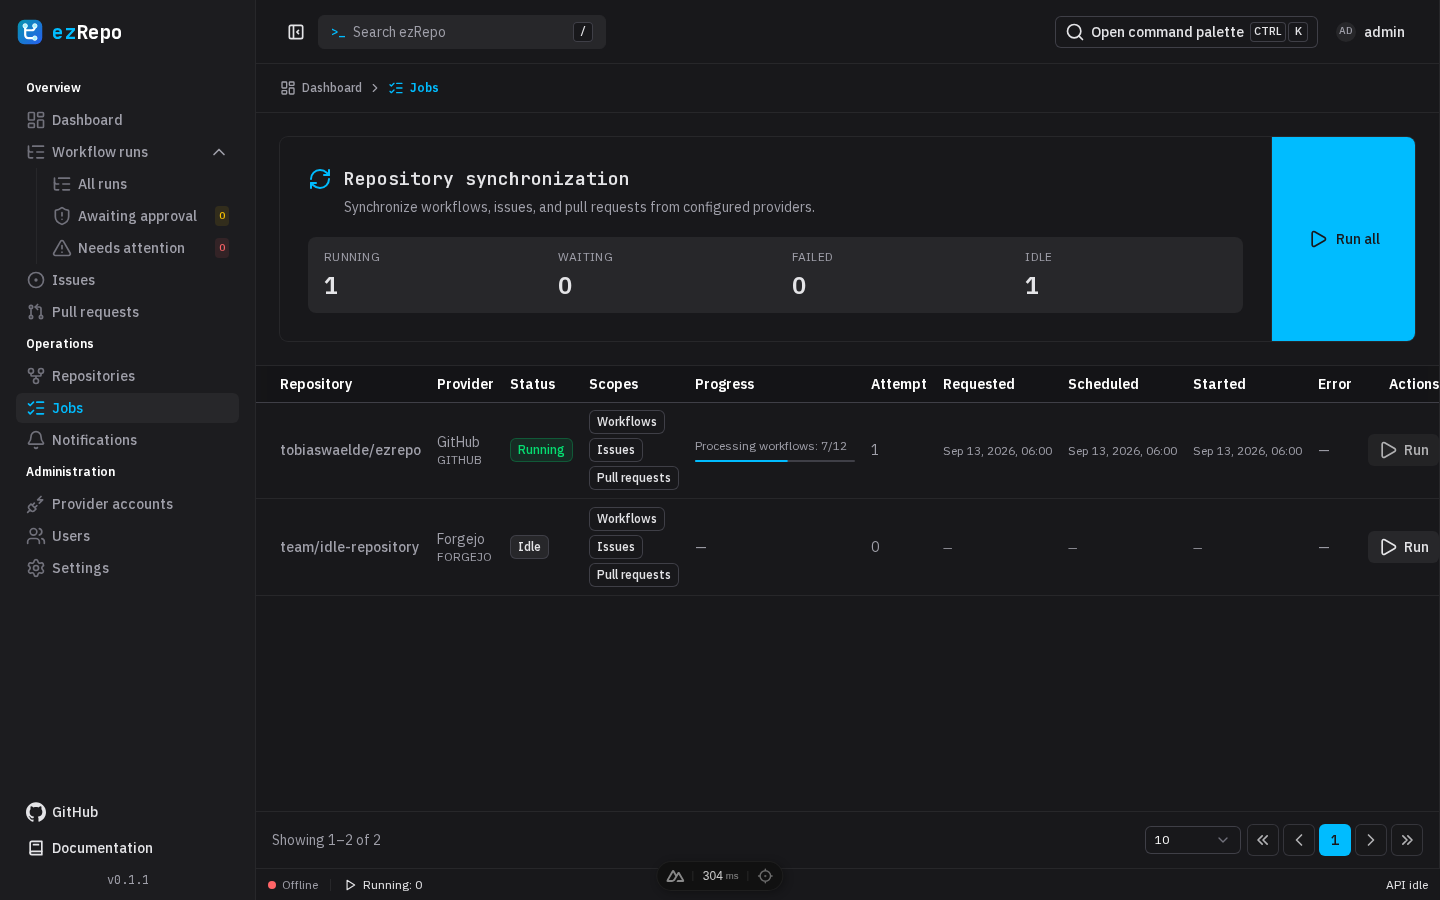
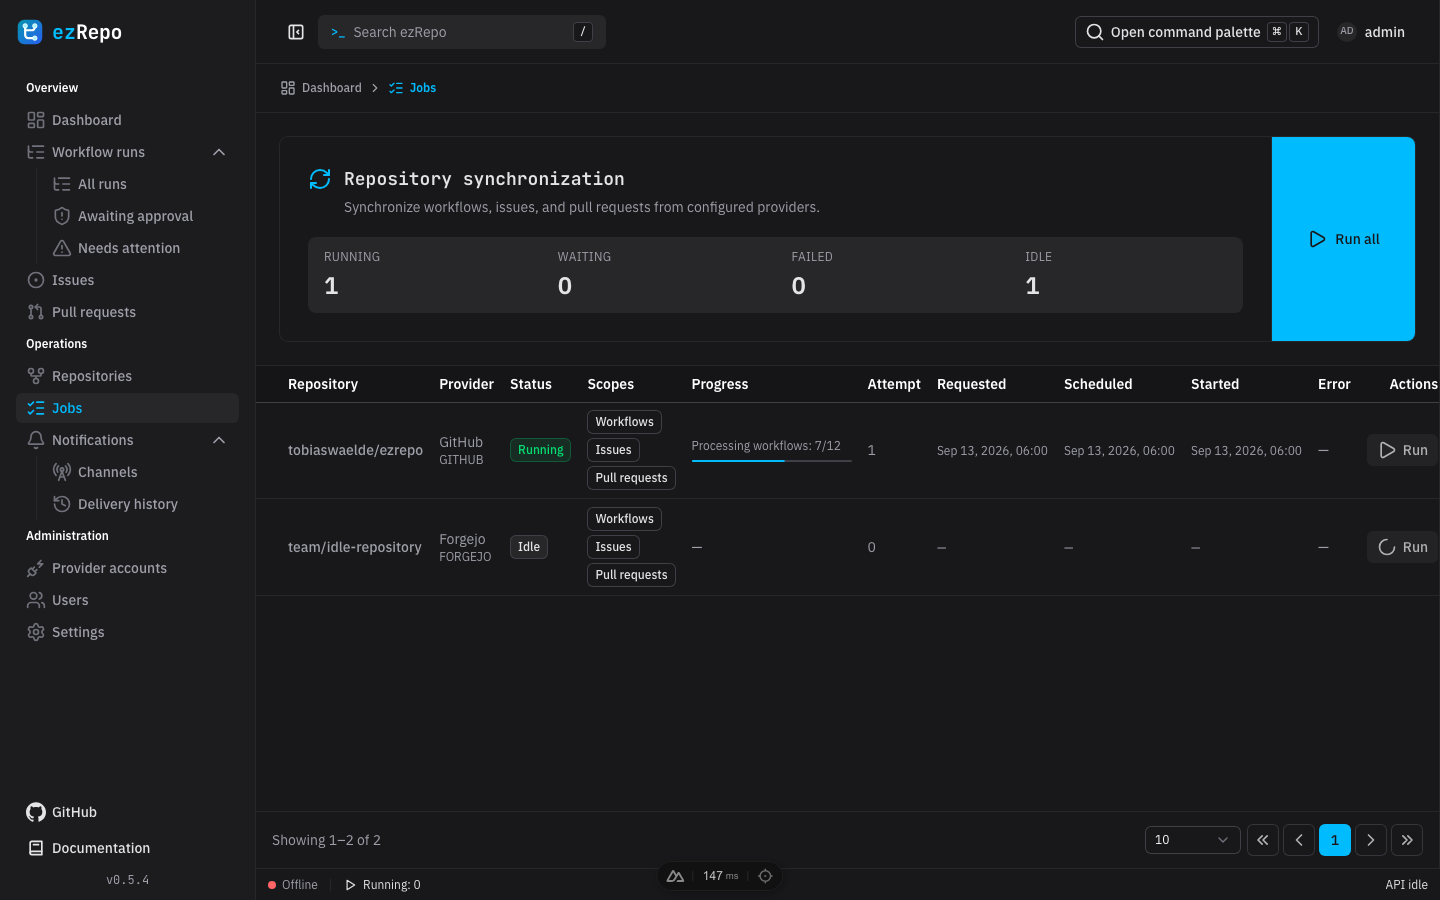
feat(web): persist table page sizes

diff --git a/apps/web/tests/e2e/admin-tables.spec.ts b/apps/web/tests/e2e/admin-tables.spec.ts
@@ -410,30 +410,35 @@ test('repository dialog loads retention, filters, and members', async ({ page })
 test('workflow runs render in a filterable and sortable full-page table', async ({ page }, testInfo) => {
   await page.addInitScript(() => {
     window.localStorage.setItem('ezrepo.access-token', 'playwright-access-token');
-    window.localStorage.setItem(
-      'table:workflow-runs:filtering',
-      JSON.stringify({
-        filters: [
-          {
-            field: 'repositoryId',
-            id: 'repository-filter',
-            operator: 'in',
-            type: 'enum',
-            value: ['repository-1'],
-          },
-          {
-            field: 'repository.providerAccount.providerType',
-            id: 'provider-filter',
-            operator: 'in',
-            type: 'enum',
-            value: ['GITHUB'],
-          },
-          { field: 'durationMs', id: 'duration-filter', operator: 'gte', type: 'number', value: 90_000 },
-          { field: 'status', id: 'status-filter', operator: 'in', type: 'enum', value: ['SUCCESS'] },
-        ],
-        operator: 'AND',
-      }),
-    );
+    if (!window.localStorage.getItem('table:workflow-runs:filtering')) {
+      window.localStorage.setItem(
+        'table:workflow-runs:filtering',
+        JSON.stringify({
+          filters: [
+            {
+              field: 'repositoryId',
+              id: 'repository-filter',
+              operator: 'in',
+              type: 'enum',
+              value: ['repository-1'],
+            },
+            {
+              field: 'repository.providerAccount.providerType',
+              id: 'provider-filter',
+              operator: 'in',
+              type: 'enum',
+              value: ['GITHUB'],
+            },
+            { field: 'durationMs', id: 'duration-filter', operator: 'gte', type: 'number', value: 90_000 },
+            { field: 'status', id: 'status-filter', operator: 'in', type: 'enum', value: ['SUCCESS'] },
+          ],
+          operator: 'AND',
+        }),
+      );
+    }
+    if (!window.localStorage.getItem('table:workflow-runs:items-per-page')) {
+      window.localStorage.setItem('table:workflow-runs:items-per-page', '50');
+    }
   });
   const workflowRunRequestUrls: string[] = [];
   let repositoryFilterRequestFails = false;
@@ -530,6 +535,7 @@ test('workflow runs render in a filterable and sortable full-page table', async 
       { status: { in: ['SUCCESS'] } },
     ],
   });
+  expect(new URL(workflowRunRequestUrls.at(-1)!).searchParams.get('perPage')).toBe('50');
   await page.keyboard.press('Shift+F');
   const filteringPopover = page.locator('.qk-table-filtering-popover');
   await expect(filteringPopover.getByText('Repository', { exact: true })).toBeVisible();
@@ -544,7 +550,22 @@ test('workflow runs render in a filterable and sortable full-page table', async 
   await expect
     .poll(() => new URL(workflowRunRequestUrls.at(-1)!).searchParams.get('where'))
     .toContain('"durationMs":{"gte":120000}');
+  await expect
+    .poll(() =>
+      page.evaluate(() => {
+        const filtering = JSON.parse(window.localStorage.getItem('table:workflow-runs:filtering') ?? '{}') as {
+          filters?: Array<{ field?: string; value?: unknown }>;
+        };
+        return filtering.filters?.find((filter) => filter.field === 'durationMs')?.value;
+      }),
+    )
+    .toBe(120_000);
   await page.keyboard.press('Shift+F');
+  await page.locator('footer').getByRole('combobox').click();
+  await page.getByRole('option', { name: '100', exact: true }).click();
+  await expect
+    .poll(() => page.evaluate(() => window.localStorage.getItem('table:workflow-runs:items-per-page')))
+    .toBe('100');
   await page.keyboard.press('Shift+O');
   await expect(page.getByText('Table options', { exact: true })).toBeVisible();
   await expect(page.locator('.qk-table-options-popover').getByText('Workflow', { exact: true })).toBeVisible();
@@ -554,7 +575,13 @@ test('workflow runs render in a filterable and sortable full-page table', async 
   await expect(page.getByRole('option', { name: 'Workflow', exact: true })).toBeVisible();
 
   repositoryFilterRequestFails = true;
+  const requestCountBeforeReload = workflowRunRequestUrls.length;
   await page.reload();
   await expect(page.getByText('Repository filter options could not be loaded.', { exact: true })).toBeVisible();
   await expect(page.getByText('twaelde/ezrepo', { exact: true })).toBeVisible();
+  await expect.poll(() => workflowRunRequestUrls.length).toBeGreaterThan(requestCountBeforeReload);
+  await expect.poll(() => new URL(workflowRunRequestUrls.at(-1)!).searchParams.get('perPage')).toBe('100');
+  await expect
+    .poll(() => new URL(workflowRunRequestUrls.at(-1)!).searchParams.get('where'))
+    .toContain('"durationMs":{"gte":120000}');
 });

diff --git a/apps/web/tests/e2e/jobs.spec.ts b/apps/web/tests/e2e/jobs.spec.ts
@@ -39,7 +39,7 @@ const jobs = [
   },
 ] as const;
 
-async function mockJobsPage(page: Page, onQuery: () => void = () => undefined): Promise<void> {
+async function mockJobsPage(page: Page, onQuery: (url: string) => void = () => undefined): Promise<void> {
   await page.addInitScript(() => window.localStorage.setItem('ezrepo.access-token', 'playwright-access-token'));
   await page.route('**/api/v1/auth/me', (route) =>
     route.fulfill({ json: { id: 'admin-id', role: 'SYSTEM_ADMIN', username: 'admin' } }),
@@ -61,7 +61,7 @@ async function mockJobsPage(page: Page, onQuery: () => void = () => undefined): 
     route.fulfill({ json: { failed: 0, idle: 1, pending: 0, running: 1, total: 2 } }),
   );
   await page.route(/\/api\/v1\/jobs\/repository-sync(?:\?.*)?$/, (route) => {
-    onQuery();
+    onQuery(route.request().url());
     return route.fulfill({
       json: {
         items: jobs,
@@ -129,4 +129,26 @@ test('polls every five seconds only while the jobs page is mounted', async ({ pa
   const unmountedQueryCount = queryCount;
   await page.waitForTimeout(5_250);
   expect(queryCount).toBe(unmountedQueryCount);
+});
+
+test('restores the selected page size across visits', async ({ page }) => {
+  await page.addInitScript(() => {
+    if (!window.localStorage.getItem('table:jobs:items-per-page')) {
+      window.localStorage.setItem('table:jobs:items-per-page', '25');
+    }
+  });
+  const requestedUrls: string[] = [];
+  await mockJobsPage(page, (url) => requestedUrls.push(url));
+
+  await page.goto('/jobs');
+  await expect.poll(() => requestedUrls.some((url) => new URL(url).searchParams.get('perPage') === '25')).toBe(true);
+
+  await page.locator('footer').getByRole('combobox').click();
+  await page.getByRole('option', { name: '50', exact: true }).click();
+  await expect.poll(() => page.evaluate(() => window.localStorage.getItem('table:jobs:items-per-page'))).toBe('50');
+
+  const requestCountBeforeReload = requestedUrls.length;
+  await page.reload();
+  await expect.poll(() => requestedUrls.length).toBeGreaterThan(requestCountBeforeReload);
+  await expect.poll(() => new URL(requestedUrls.at(-1)!).searchParams.get('perPage')).toBe('50');
 });

diff --git a/apps/web/app/pages/jobs.vue b/apps/web/app/pages/jobs.vue
@@ -144,6 +144,7 @@
 
 <script setup lang="ts">
 import type { TableColumn } from '#ui/types';
+import { useLocalStorage } from '@vueuse/core';
 import { computed, onBeforeUnmount, onMounted, ref, watch } from 'vue';
 
 import { useEzRepoApi } from '~/composables/api/ezrepo-api';
@@ -166,7 +167,7 @@ const summary = ref<RepositorySyncJobSummary | null>(null);
 const loading = ref(true);
 const loadError = ref(false);
 const page = ref(1);
-const itemsPerPage = ref(10);
+const itemsPerPage = useLocalStorage('table:jobs:items-per-page', 10);
 const totalItems = ref(0);
 let refreshTimer: ReturnType<typeof setInterval> | undefined;
 

diff --git a/TODO.md b/TODO.md
@@ -26,10 +26,10 @@ Context: [Needs-attention run analysis](codex://threads/01a0e5c8-d160-7280-9d56-
 
 ## 3. Persistent table state and filters
 
-- [ ] Persist each table's selected page size in local storage under its existing table persistence key.
-- [ ] Allow useful table-filter selections to be saved locally and restored per table.
-- [ ] Consider a global repository selector that filters the dashboard, workflow runs, issues, and pull requests.
-  - [ ] Keep this optional until the repository detail page and local table persistence have been completed.
+- [x] Persist each table's selected page size in local storage under its existing table persistence key.
+- [x] Allow useful table-filter selections to be saved locally and restored per table.
+- [x] Consider a global repository selector that filters the dashboard, workflow runs, issues, and pull requests.
+  - [x] Keep this optional until the repository detail page and local table persistence have been completed.
 
 ## 4. Repository detail page
 

diff --git a/.changeset/persist-table-page-size.md b/.changeset/persist-table-page-size.md
@@ -1,0 +1,5 @@
+---
+'ezrepo': patch
+---
+
+Persist the Jobs table page size alongside the existing per-table filters and pagination preferences.
